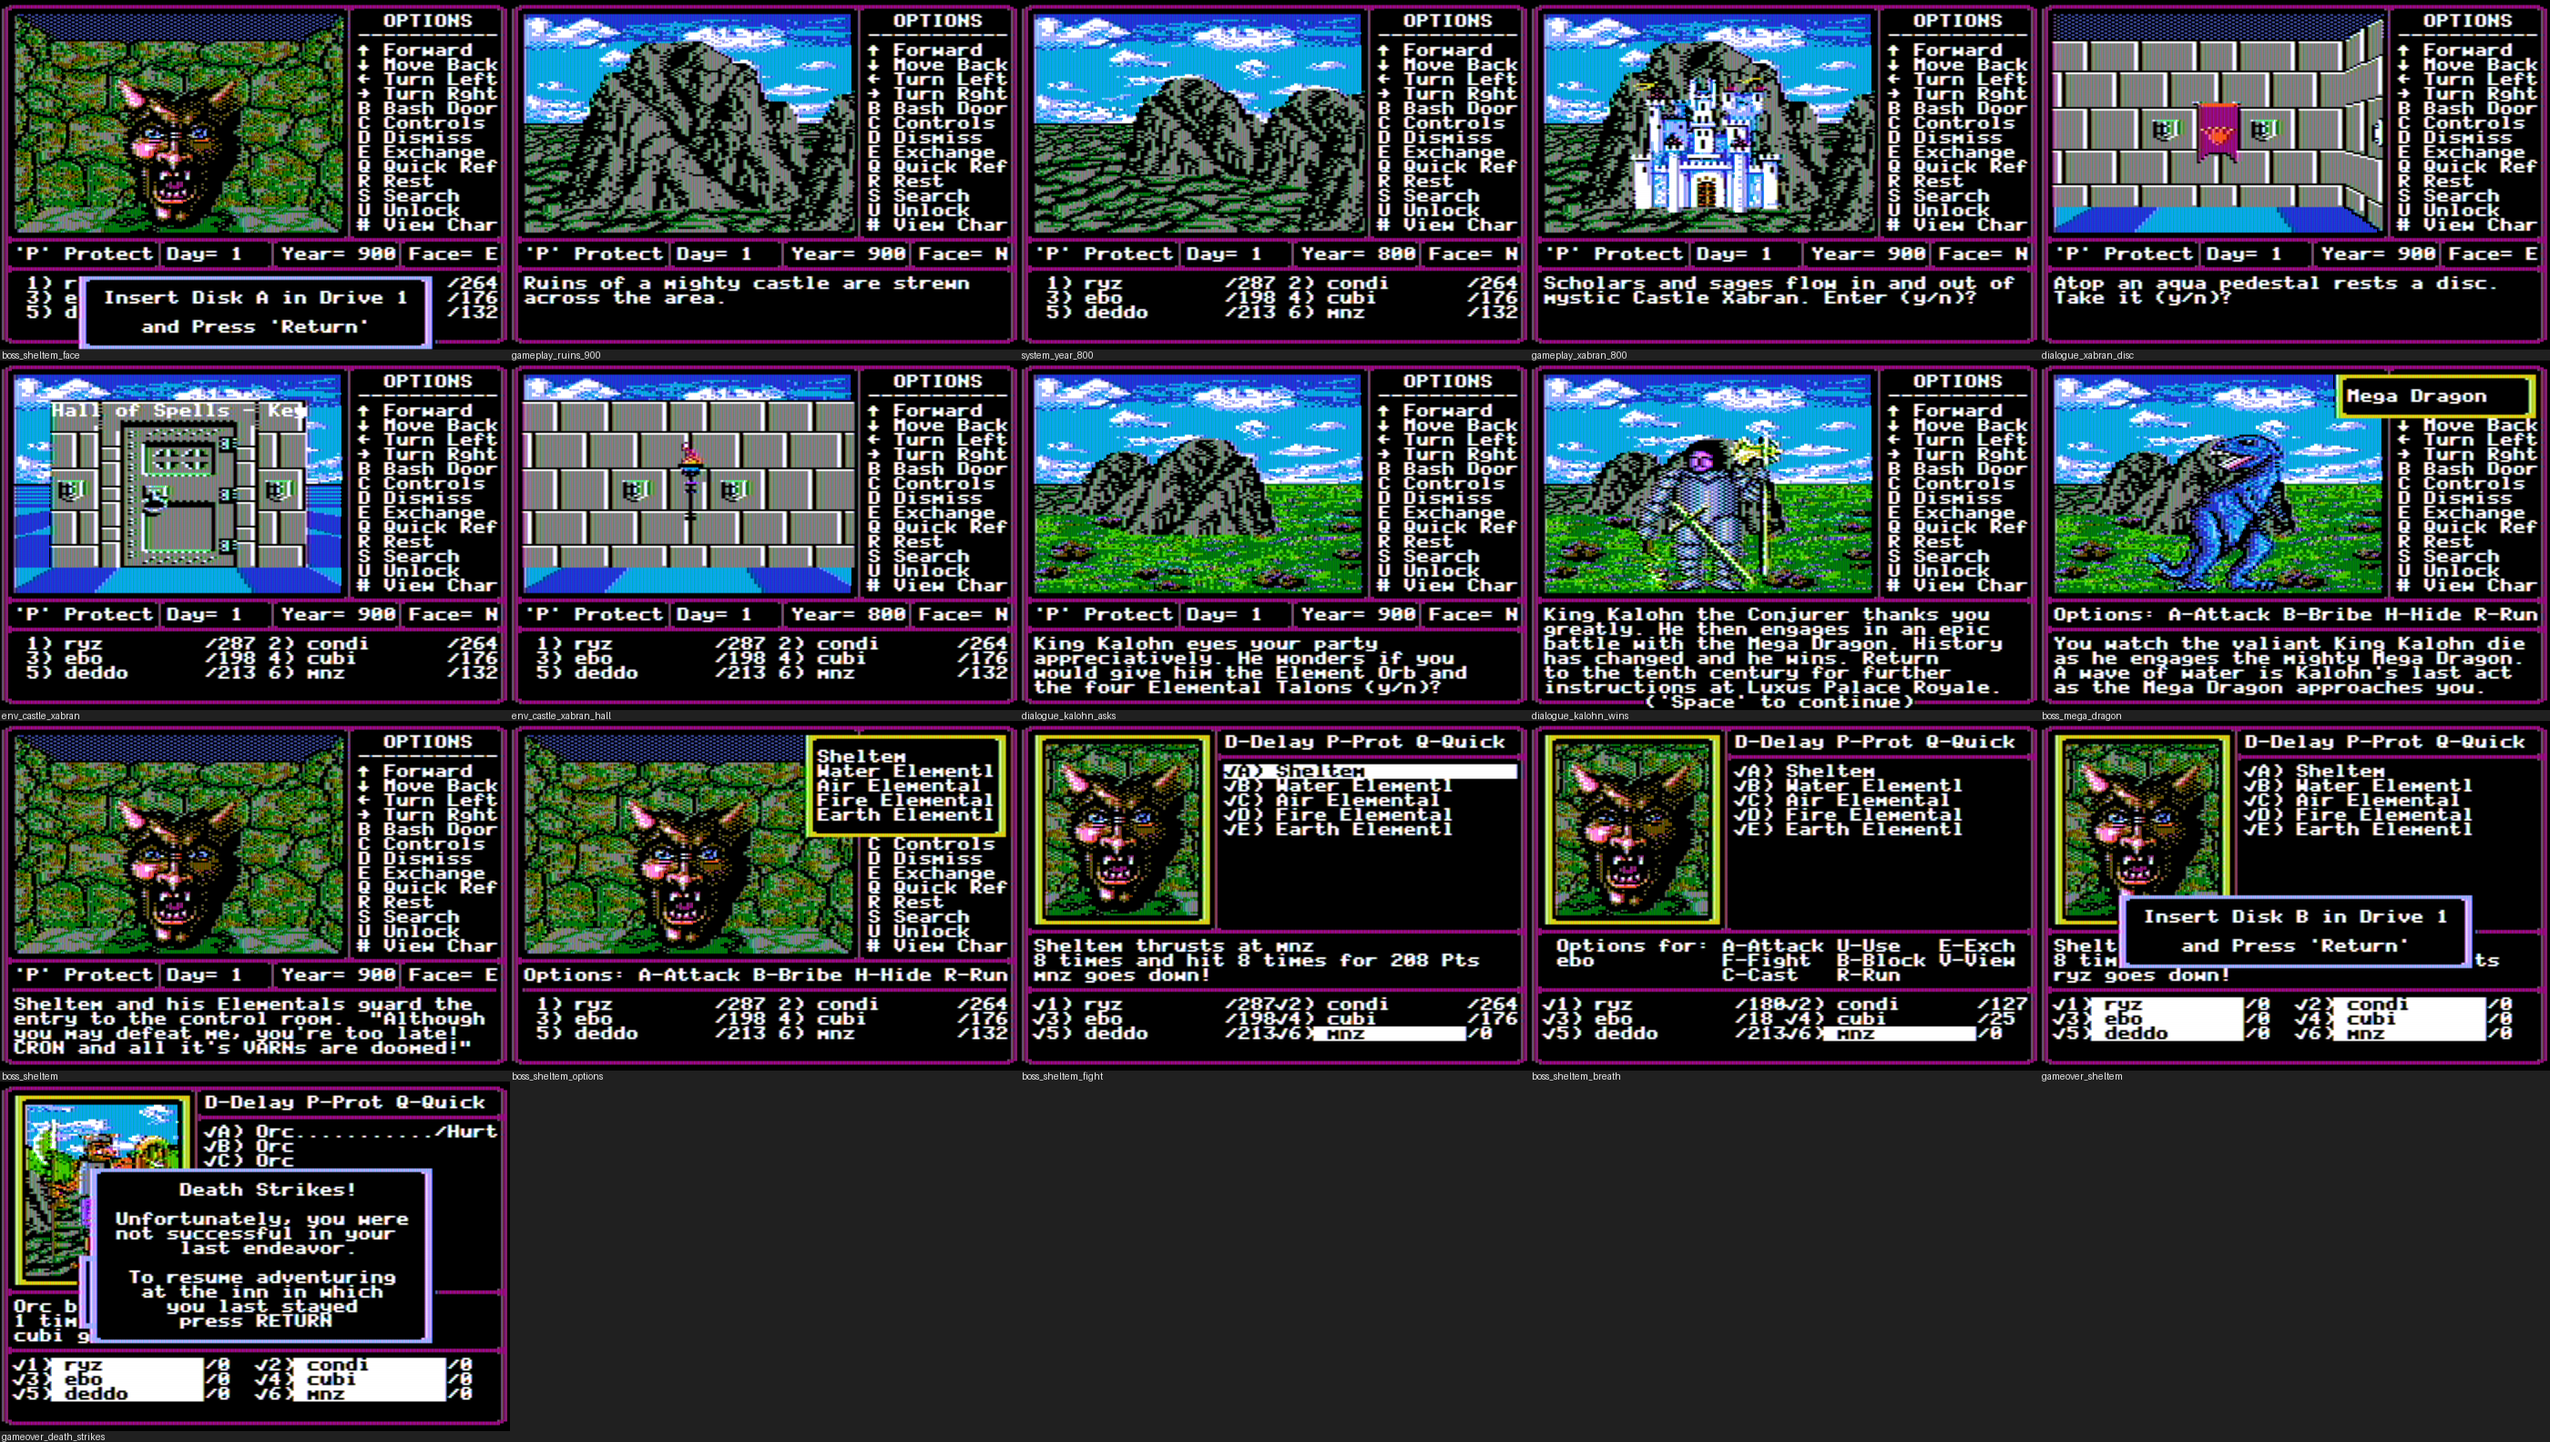
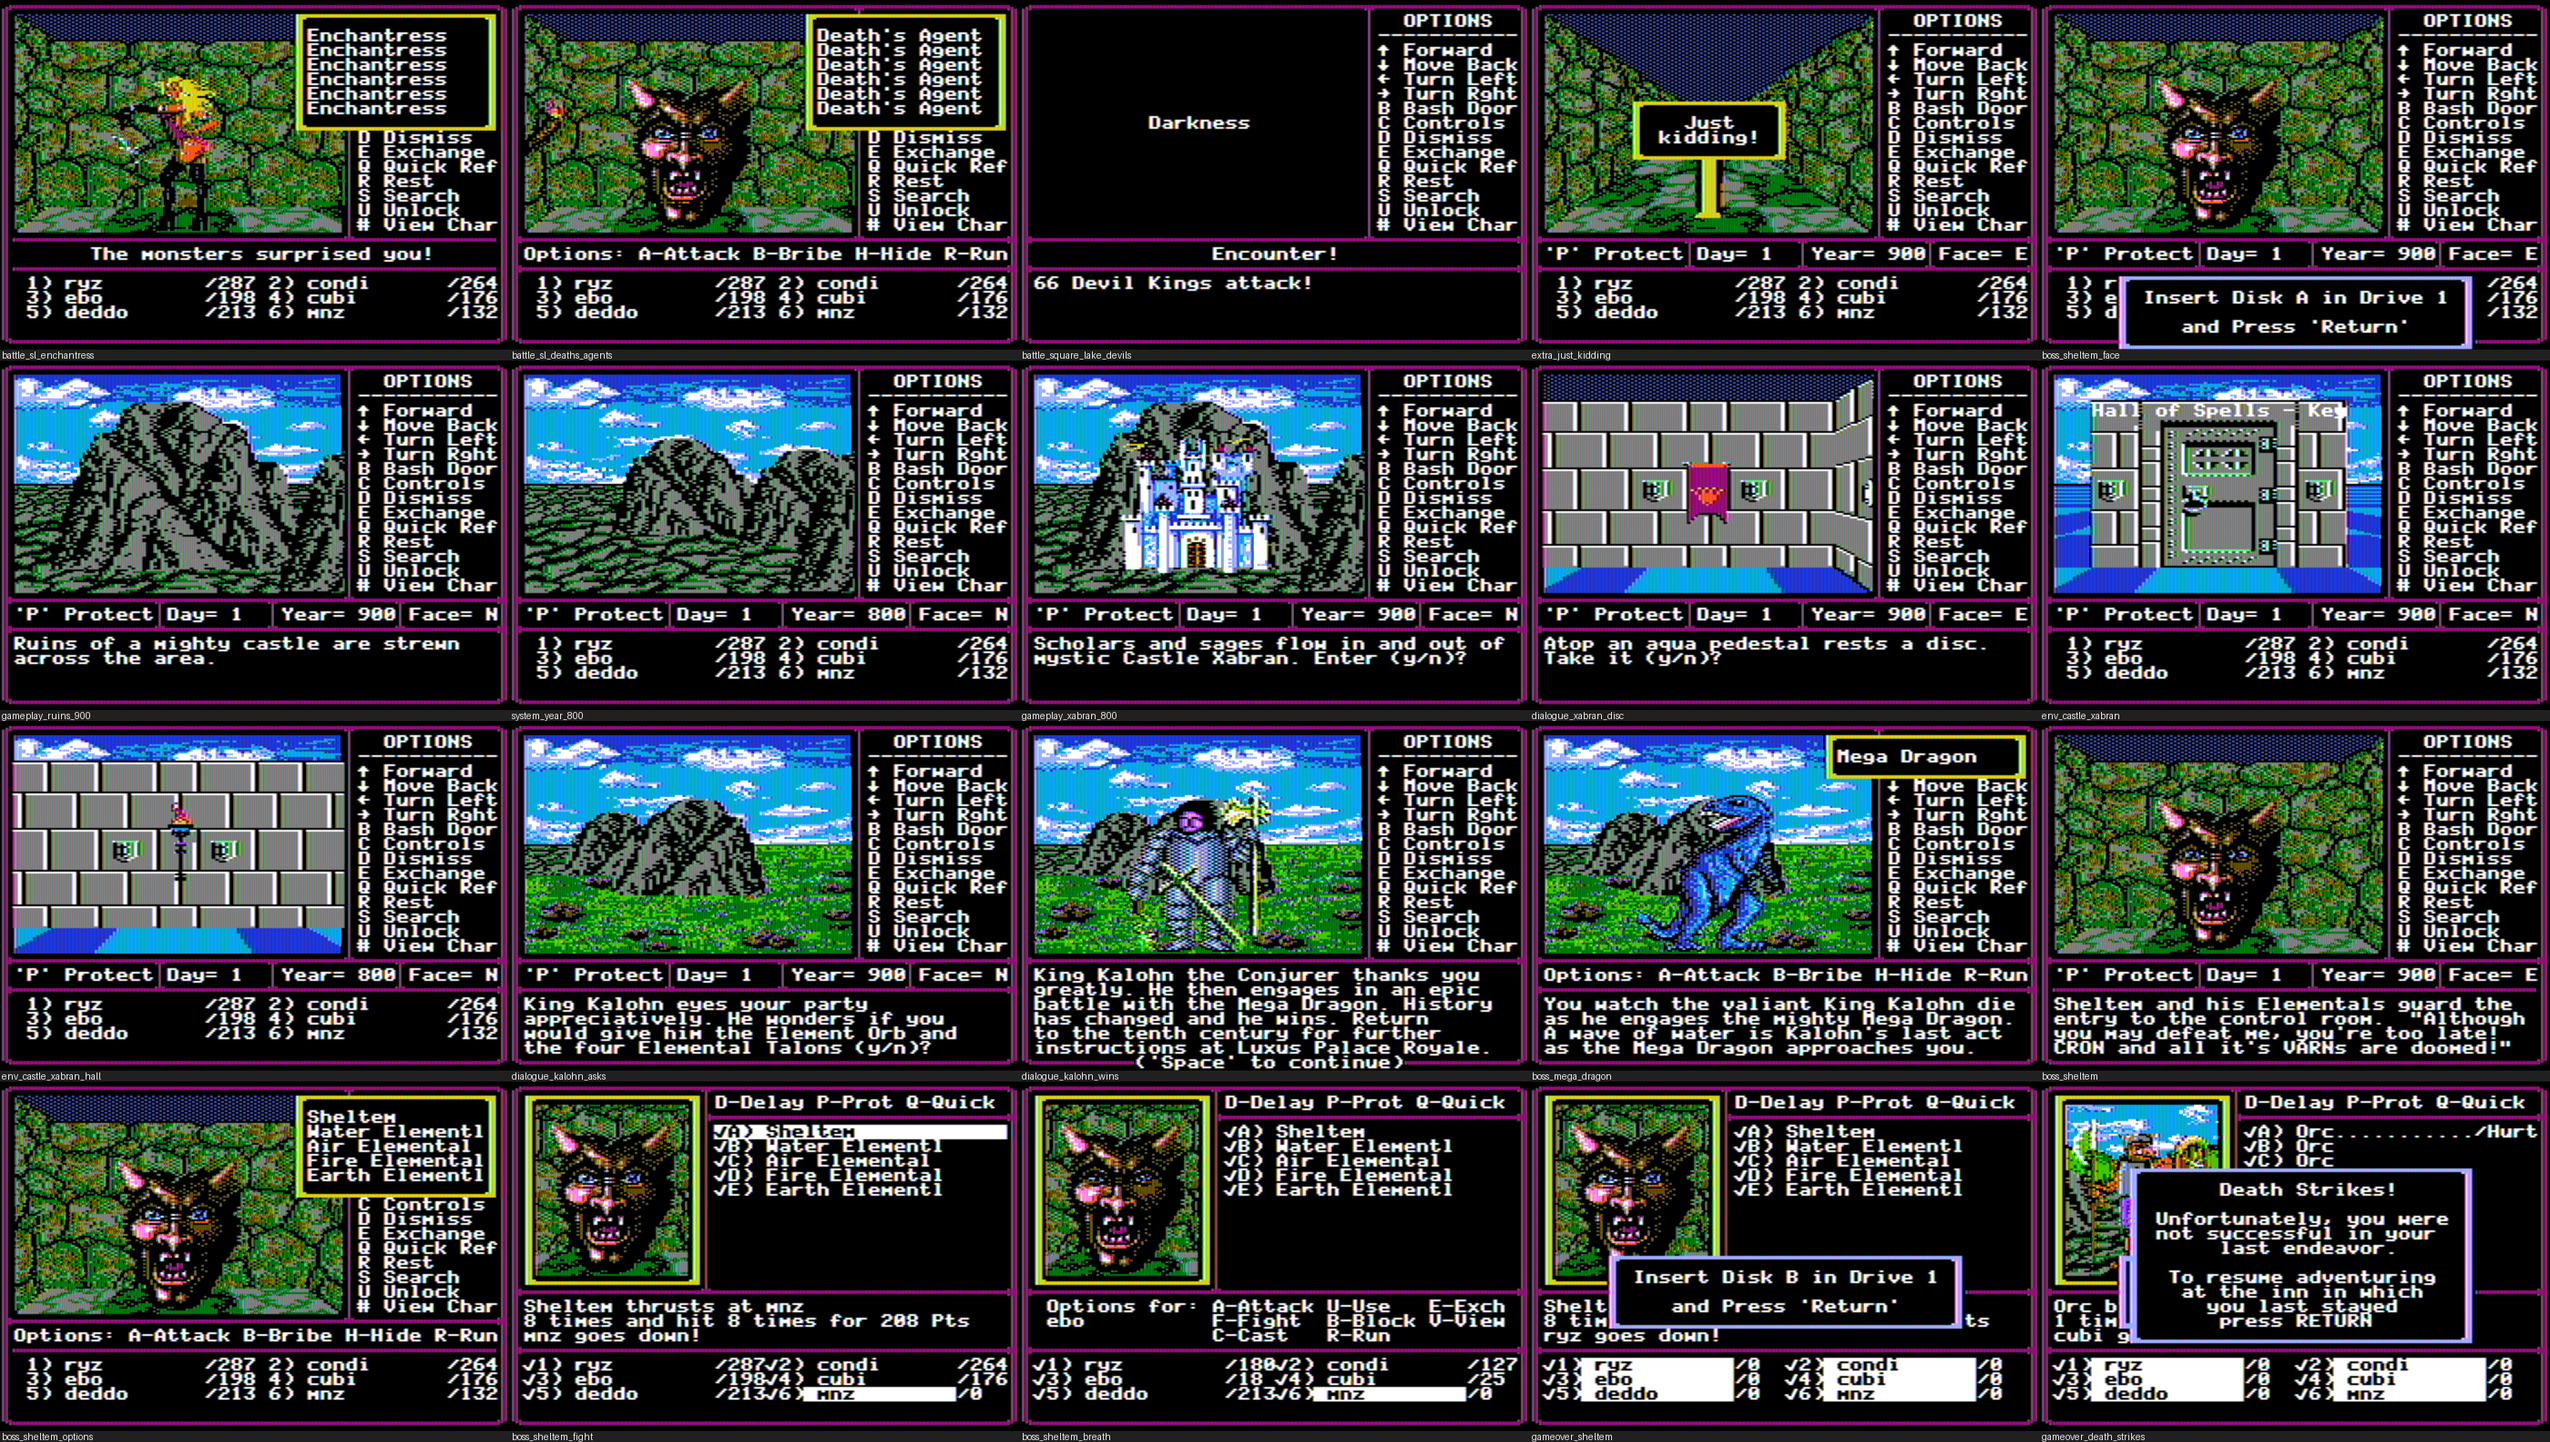
might-and-magic-2 (Apple II): automap shots - Middlegate partly walked, Middlegate, C2 and cavern filled (4 shots)
Claude-Session: https://claude.ai/code/session_011YfKegnZyLev7cW9asjWAT

diff --git a/games/apple2/might-and-magic-2/shots/main/index.md b/games/apple2/might-and-magic-2/shots/main/index.md
@@ -1,6 +1,6 @@
 # Might and Magic II: Gates to Another World - shots: main
 
-Platform apple2, region na, model iie, ROM SHA-1 `744bceee48f35ca29e2c227996f00652212e1b1d`. 216 shots. Contact sheet: [might-and-magic-2_apple2_na_set_sheet.png](might-and-magic-2_apple2_na_set_sheet.png). Native size; enlarged copies on demand with `python3 tools/x3.py <this folder>`. File names: `<game>_<platform>_<region>_<category>_<id>.png`.
+Platform apple2, region na, model iie, ROM SHA-1 `744bceee48f35ca29e2c227996f00652212e1b1d`. 220 shots. Contact sheet: [might-and-magic-2_apple2_na_set_sheet.png](might-and-magic-2_apple2_na_set_sheet.png). Native size; enlarged copies on demand with `python3 tools/x3.py <this folder>`. File names: `<game>_<platform>_<region>_<category>_<id>.png`.
 
 | id | category | caption | settled | image |
 |---|---|---|---|---|
@@ -78,6 +78,10 @@ Platform apple2, region na, model iie, ROM SHA-1 `744bceee48f35ca29e2c227996f006
 | system_rest_done | system | Rest complete, no encounters | no | [png](might-and-magic-2_apple2_na_system_system_rest_done.png) |
 | system_search_nothing | system | Search: nothing here | no | [png](might-and-magic-2_apple2_na_system_system_search_nothing.png) |
 | system_location | system | Location (M): coordinates (7,5) and an arrow, no map without Cartographer | no | [png](might-and-magic-2_apple2_na_system_system_location.png) |
+| automap_partial | system | Automap (M, Cartographer in the party): Middlegate after 18 squares walked | no | [png](might-and-magic-2_apple2_na_system_automap_partial.png) |
+| automap_middlegate | system | Automap of Middlegate, all squares marked by poke: the whole town | no | [png](might-and-magic-2_apple2_na_system_automap_middlegate.png) |
+| automap_c2 | system | Automap of outdoor area C2, all squares marked by poke | no | [png](might-and-magic-2_apple2_na_system_automap_c2.png) |
+| automap_cavern | system | Automap of the cavern under Middlegate, all squares marked by poke | no | [png](might-and-magic-2_apple2_na_system_automap_cavern.png) |
 | system_exchange | system | Exchange: swap two marching positions | no | [png](might-and-magic-2_apple2_na_system_system_exchange.png) |
 | system_exchange_done | system | Exchange 1 with 2: condi now leads the party, ryz second | no | [png](might-and-magic-2_apple2_na_system_system_exchange_done.png) |
 | system_dismiss | system | Dismiss whom (1-6)? | no | [png](might-and-magic-2_apple2_na_system_system_dismiss.png) |
